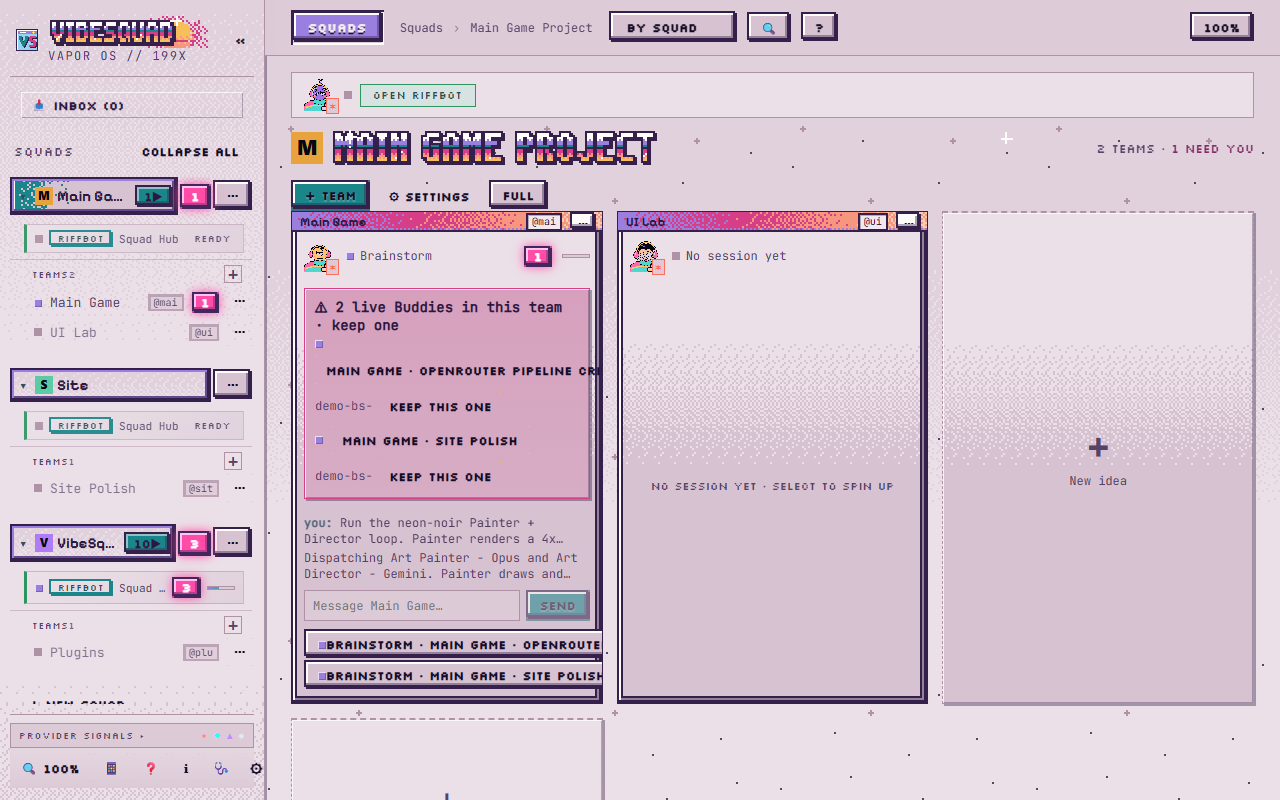
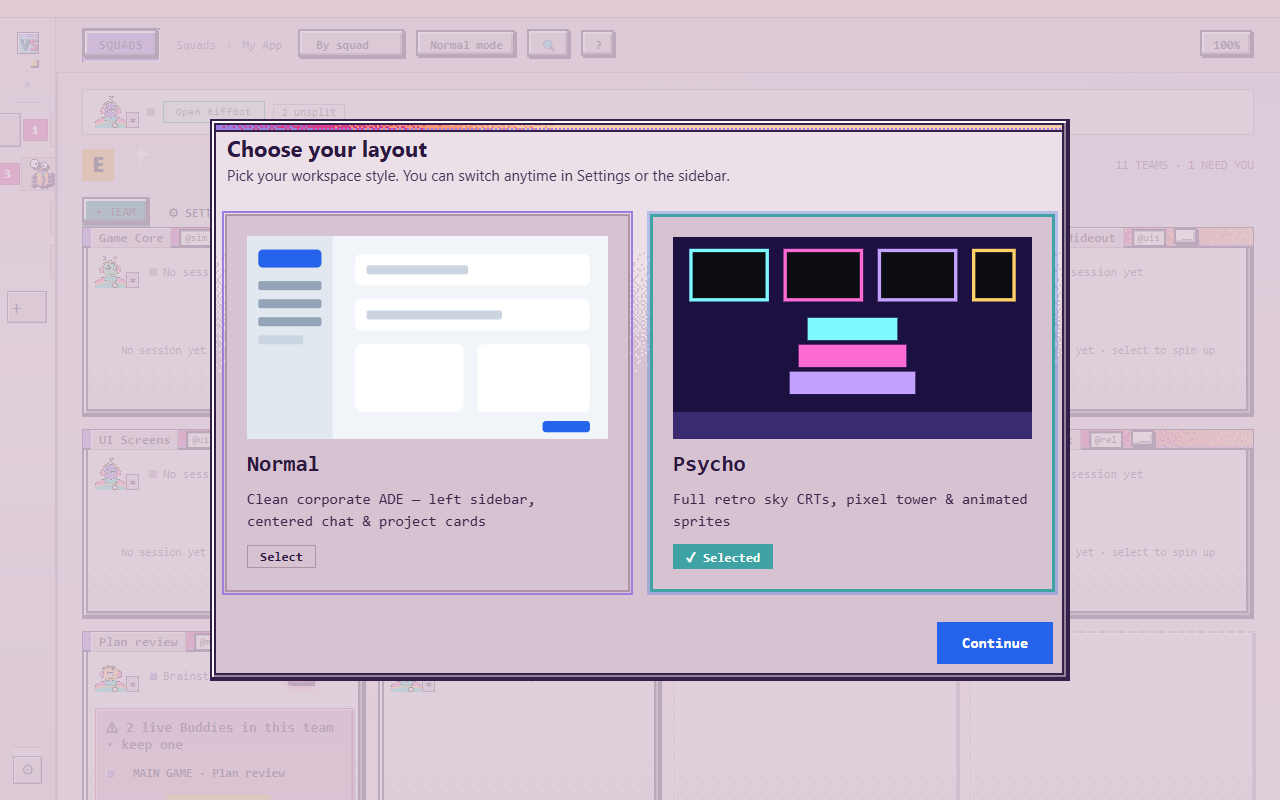
docs(wiki): W10b retake 01-first-run and 07a-settings-top for the Normal/Psycho picker and Layout vibe row

diff --git a/guide/Reference/Settings.md b/guide/Reference/Settings.md
@@ -4,7 +4,7 @@ What each area of VibeSquad's Settings window does, when to touch it, and the sa
 
 Open it from the **⚙ SETTINGS** button in a Squad's header in VibeSquad. It opens a **Settings** page with a list of tabs down the left (App, Chat, Notifications, New Agent defaults, Keybindings, Team, Remote Control, Runner & Providers, Profiles, About) and a search box. Section names below are the labels you will see on screen; if one is not where you expect, click through the tabs or search for it. Where things live: **YOUR NAME** and **ALLOW OTHER DEVICES** are on the **Team** tab (the **Remote Control** tab has the full pairing flow, below), **DISPLAY & 4K UI SCALE** and **Layout vibe** (Normal or Psycho, see [Normal and Psycho](../Concepts/Modes.md)) are on **App**, and **UPDATE CHANNEL** is on **About**. The screenshot below is the **App** tab, which opens first.
 
-![The Settings window on its App tab: the tab list on the left, then UI density, Theme, Accent color, Open in IDE and Display & 4K UI scale](../assets/screenshots/07a-settings-top.png)
+![The Settings window on its App tab: the tab list on the left, then UI density, Theme, Layout vibe, Accent color, Open in IDE and Display & 4K UI scale](../assets/screenshots/07a-settings-top.png)
 
 ## Your name
 

diff --git a/guide/Guide/00-everybody-can-vibe.md b/guide/Guide/00-everybody-can-vibe.md
@@ -10,7 +10,7 @@ The guide is written for VibeSquad, the app where you chat with a Buddy and watc
 
 This is the home screen. Each product is a Squad in the left column, and each feature in it is a team.
 
-![VibeSquad home screen: the Squad list on the left, the Open RiffBot bar and the Squad's teams (Main Game, UI Lab) with the New idea card in the middle](../assets/screenshots/01-first-run.png)
+![VibeSquad's first-launch Choose your layout window: Normal and Psycho cards and a Continue button, over the Squad home screen](../assets/screenshots/01-first-run.png)
 
 > **Aub:** My first projects were a WoW add-on, fixing friends' PCs by having agents read their logs, and some Android apps. I knew basically nothing. Everything I got looked like a patchwork zombie: each feature worked on its own, but the way they worked together sucked. I'd bought into the "make me a game, make no mistakes" meme. What I learned is that it's all about iteration.
 

diff --git a/guide/Guide/03-back-to-you.md b/guide/Guide/03-back-to-you.md
@@ -70,7 +70,7 @@ What I learned about this: [Cross-family review](../Concepts/Cross-Family-Review
 
 Every team you create is pinned on its Squad's home screen, as a tile next to the **New idea** card, so you can click straight back into it. Nothing leaves the screen on its own. When a feature is really done, use **Mark complete** on its tile. Press it twice to confirm. The team moves to the **Done** list at the bottom of the page, its Brainstorm and Lead retire, and **Reopen** brings it back.
 
-![A Squad's home screen: pinned teams as tiles (Main Game, UI Lab) next to the New idea card, with the Squad list on the left](../assets/screenshots/01-first-run.png)
+![The Choose your layout window shown on first launch, with Normal and Psycho cards, over a Squad's home screen](../assets/screenshots/01-first-run.png)
 
 ## Done looks like
 
